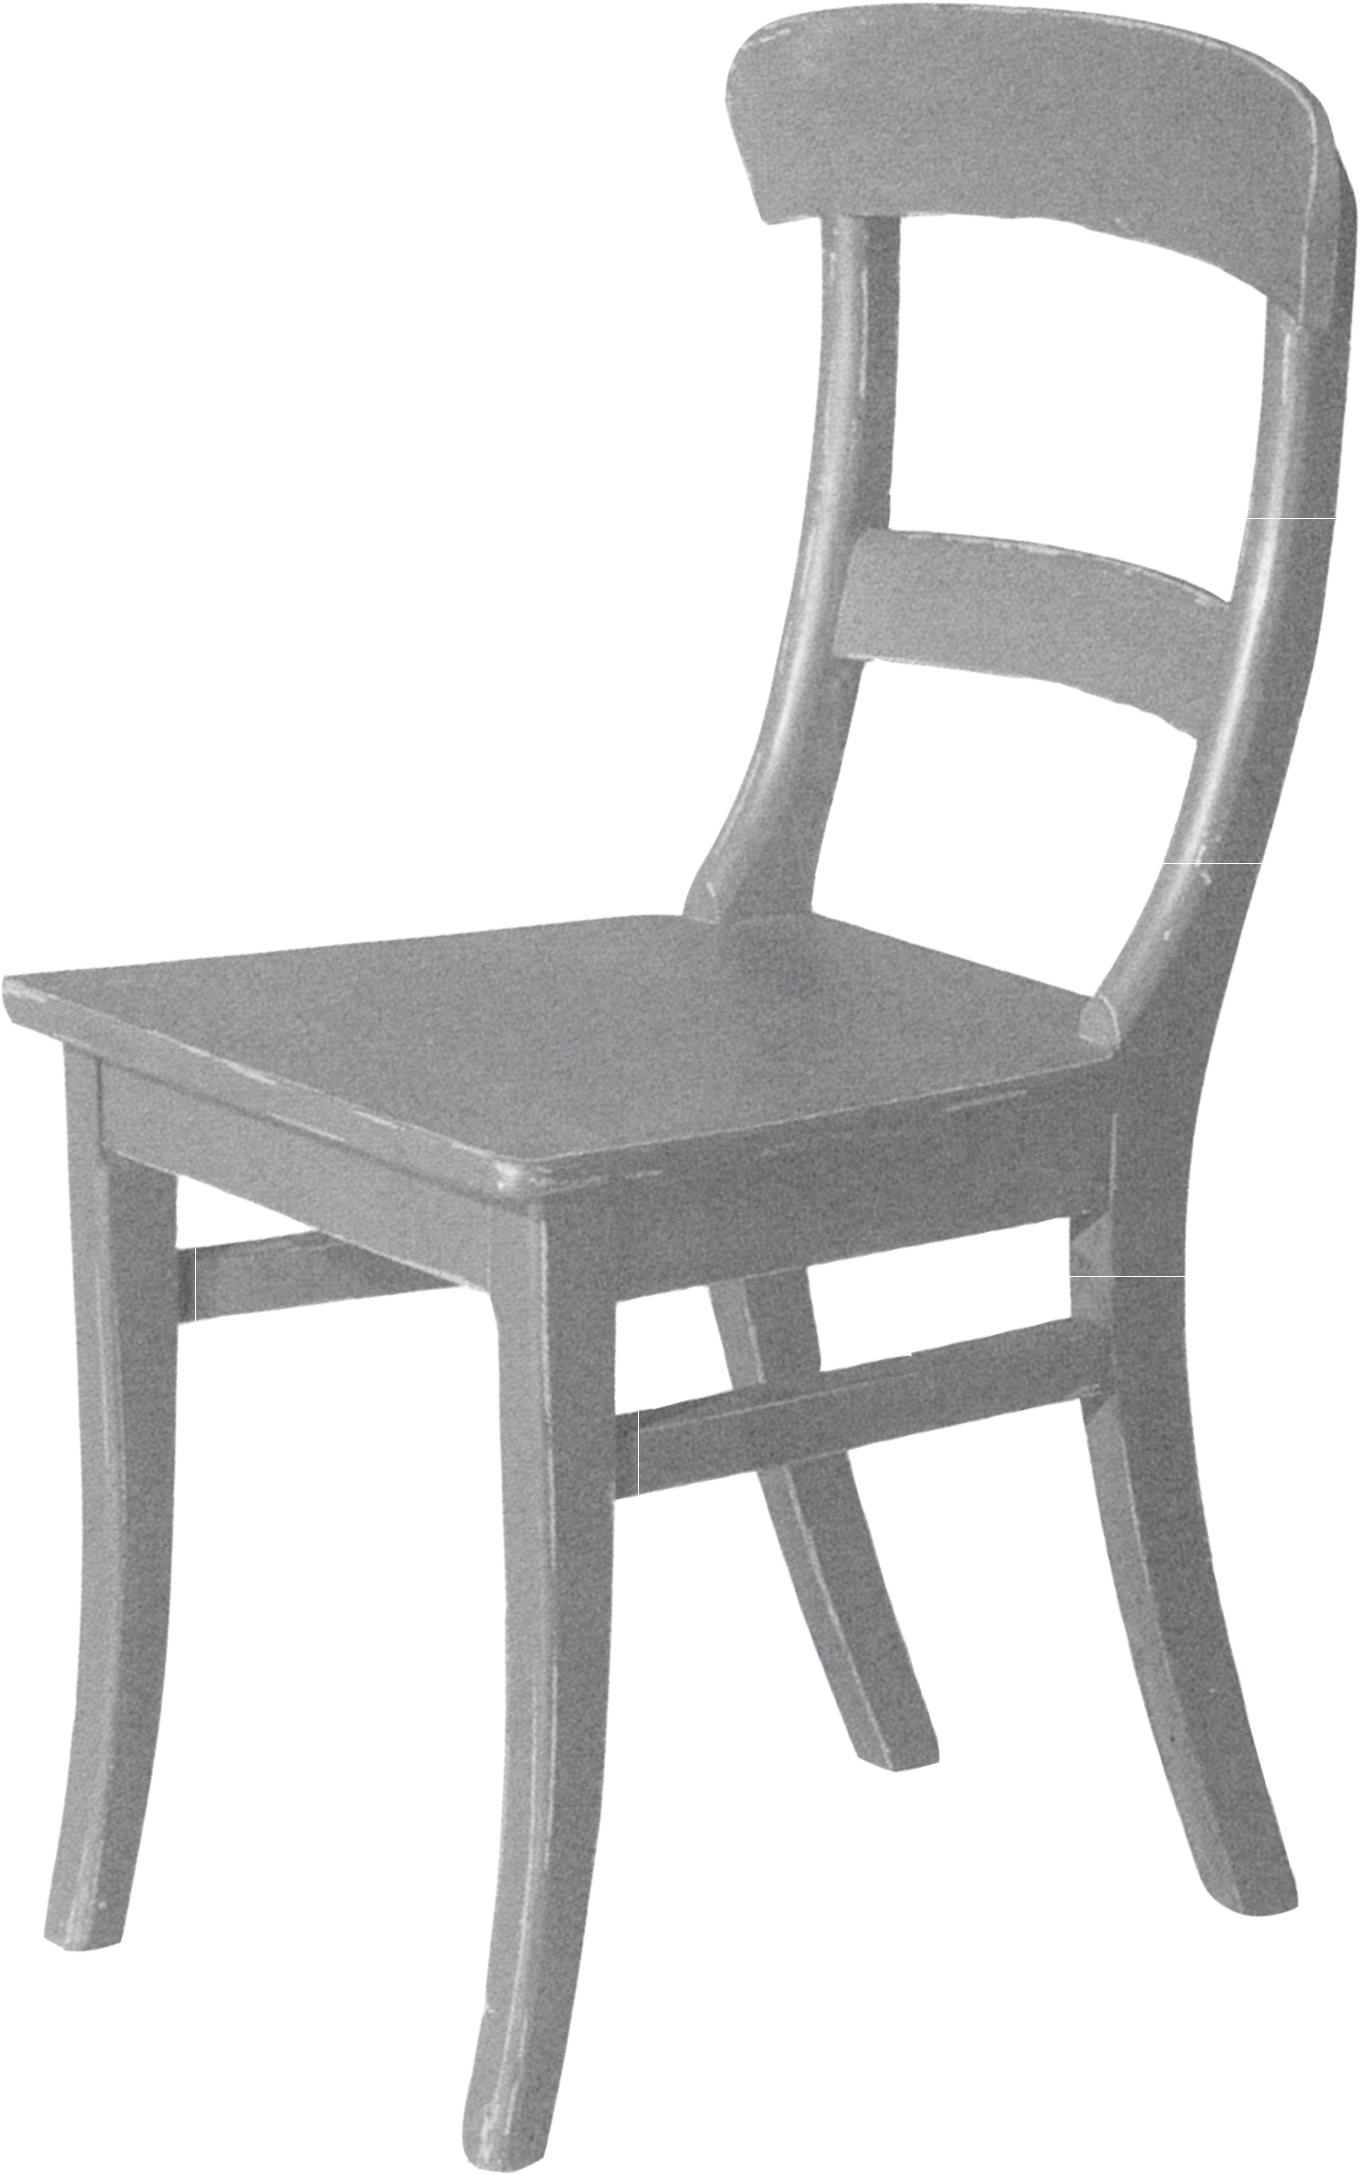
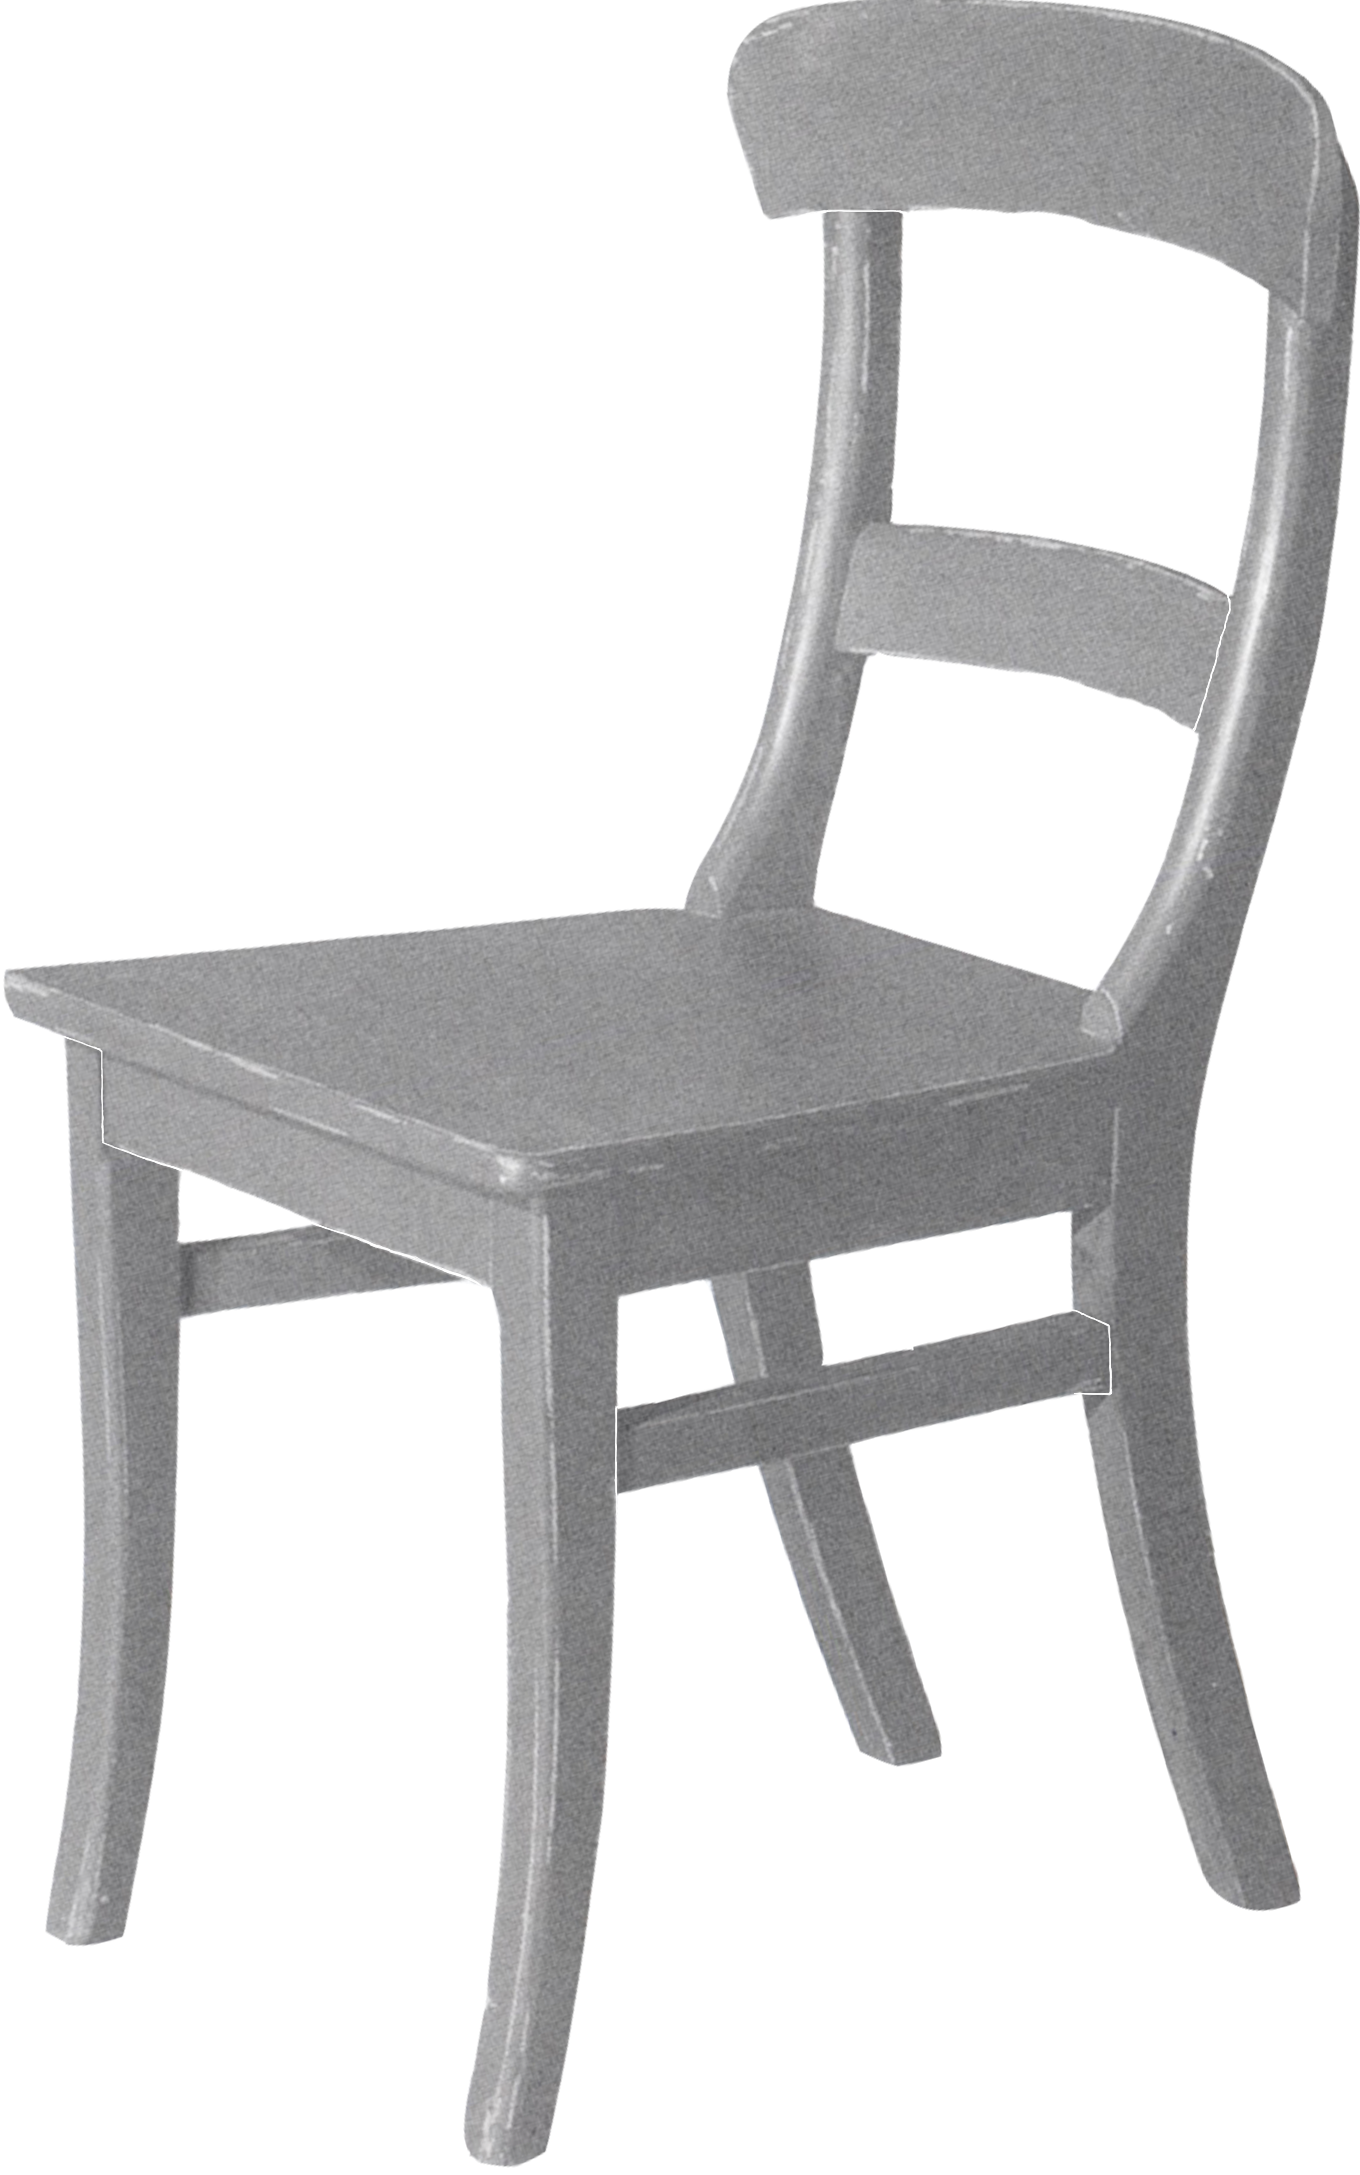
Z-order works; additional images, and some visuals.

diff --git a/src/App.tsx b/src/App.tsx
@@ -1,9 +1,8 @@
 import React, { useState, useRef, useEffect } from 'react';
 import Board, { BoardMethods } from './Components/Board';
 import Image, { ImageState, BoundingRect } from './Components/Image';
-import { IconButton } from '@material-ui/core';
 import { makeStyles } from '@material-ui/core/styles';
-import { loadWorkshop, WorkshopDetails } from './WorkshopLoader';
+import { loadWorkshop } from './WorkshopLoader';
 import SelectionLayer from './Components/SelectionLayer';
 import { OptionBar } from './OptionBar';
 
@@ -23,6 +22,11 @@ const useStyles = makeStyles(theme => ({
   }
 }));
 
+enum ZOrderOperation {
+  Forward,
+  Back
+}
+
 function App() {
 
   const classes = useStyles();
@@ -31,7 +35,7 @@ function App() {
   const cachedImageStates = useRef<(ImageState | null)[]>();
   const [workshopName, setWorkshopName] = useState("");
   const [workshopImages, setWorkshopImages] = useState<string[]>([]);
-  const [workshopUrl, setWorkshopUrl] = useState("http://localhost:3000/workshop/");
+  const [workshopUrl, setWorkshopUrl] = useState("http://192.168.1.86:3000/workshop/");
   const [boardMotionActive, setBoardMotionActive] = useState(true);
   const [hoverImageData, setHoverImageData] = useState<ImageState | null>(null);
   const [selectedImageData, setSelectedImageData] = useState<ImageState | null>(null);
@@ -118,10 +122,7 @@ function App() {
              r2.bottom < r1.top);
   }
 
-  const handleImageUpOne = (image: ImageState | null) => {
-    if (!image) {
-      return;
-    }
+  const handleImageZOrderChange = (image: ImageState, newIdxFunc: (existingIdx: number, currentImageState: ImageState, allImages: (ImageState | null)[]) => number) => {
 
     var cachedImages = cachedImageStates.current;
 
@@ -140,42 +141,72 @@ function App() {
       return;
     }
 
-    let moveToAfter = -1;
     var cacheItem = cachedImages[cacheItemIdx]!;
 
-    // Go through the set, starting from the next element.
-    for (let testItemIdx = cacheItemIdx + 1; testItemIdx < cachedImages.length; testItemIdx++)
+    let moveToIdx = newIdxFunc(cacheItemIdx, cacheItem, cachedImages);
+    
+    if (moveToIdx == cacheItemIdx)
     {
-      var testItem = cachedImages[testItemIdx];
-
-      if(testItem && intersects(testItem?.boundingRect, cacheItem.boundingRect))
-      {
-        moveToAfter = testItemIdx;
-        break;
-      }
-    }
-
-    if (moveToAfter === -1)
-    {
-      // Already at the top, nothing to do.
+      // Nothing to do.
       return;
     }
 
     // Remove the item from one location.
     cachedImages.splice(cacheItemIdx, 1);
 
+    if (moveToIdx < cacheItemIdx)
+    {
+      moveToIdx++;
+    }
+    else 
+    {
+      moveToIdx--;
+    }
+
     // Now put it back in another one.
-    cachedImages.splice(moveToAfter + 1, 0, cacheItem);
+    cachedImages.splice(moveToIdx, 0, cacheItem);
 
     // Now do the same thing for the image state list.
     let newState = [...workshopImages];
     var removed = newState.splice(cacheItemIdx, 1);
-    newState.splice(moveToAfter + 1, 0, removed[0]);
+    newState.splice(moveToIdx, 0, removed[0]);
 
     setWorkshopImages(newState);
   }
 
+  const forwardZOrder = (existingIdx: number, currentImageState: ImageState, allImages: (ImageState | null)[]) => {
+    
+    // Go through the set, starting from the next element.
+    for (let testItemIdx = existingIdx + 1; testItemIdx < allImages.length; testItemIdx++)
+    {
+      var testItem = allImages[testItemIdx];
 
+      if(testItem && intersects(testItem?.boundingRect, currentImageState.boundingRect))
+      {
+        return testItemIdx + 1;
+      }
+    }
+
+    // Already at the top, nothing to do.
+    return existingIdx;
+  }
+  
+  const backZOrder = (existingIdx: number, currentImageState: ImageState, allImages: (ImageState | null)[]) => {
+    
+    // Go through the set, starting from the next element.
+    for (let testItemIdx = existingIdx - 1; testItemIdx >= 0; testItemIdx--)
+    {
+      var testItem = allImages[testItemIdx];
+
+      if(testItem && intersects(testItem?.boundingRect, currentImageState.boundingRect))
+      {
+        return testItemIdx - 1;
+      }
+    }
+
+    // Already at the bottom, nothing to do.
+    return existingIdx;
+  }
 
   const activeImageBorder = movingImageData ?? hoverImageData ?? selectedImageData;
   const activeImageSelection = movingImageData ?? selectedImageData;
@@ -201,7 +232,8 @@ function App() {
       </Board>
       <OptionBar activeImage={activeImageSelection} 
                  onZoomToFit={() => { boardMethods.current?.resetZoom(); }}
-                 onUpOne={() => { handleImageUpOne(activeImageSelection); }}
+                 onUpOne={() => { handleImageZOrderChange(activeImageSelection!, forwardZOrder); }}
+                 onDownOne={() => { handleImageZOrderChange(activeImageSelection!, backZOrder) }}
                  />
       <canvas ref={processingCanvasEl} className={classes.computeCanvas} />
     </div>

diff --git a/src/OptionBar.tsx b/src/OptionBar.tsx
@@ -1,8 +1,9 @@
 import React, { FunctionComponent } from 'react';
 import { ImageState } from './Components/Image';
-import { AppBar, Toolbar, Typography, IconButton, CssBaseline } from '@material-ui/core';
+import { AppBar, Toolbar, Typography, IconButton, CssBaseline, Divider } from '@material-ui/core';
 import CropFreeRoundedIcon from '@material-ui/icons/CropFreeRounded';
 import ArrowUpwardRoundedIcon from '@material-ui/icons/ArrowUpwardRounded';
+import ArrowDownwardRoundedIcon from '@material-ui/icons/ArrowDownwardRounded';
 import { makeStyles } from '@material-ui/core/styles';
 
 const useStyles = makeStyles(theme => ({
@@ -11,6 +12,14 @@ const useStyles = makeStyles(theme => ({
         top: 'auto;',
         bottom: 0,
         boxShadow: "0px -4px 5px 0px rgba(0, 0, 0, 0.21)"
+    },
+
+    divider: {
+        marginLeft: '10px',
+    },
+
+    buttonContainer: {
+        marginLeft: '10px'
     }
 
 }));
@@ -18,8 +27,9 @@ const useStyles = makeStyles(theme => ({
 export const OptionBar: FunctionComponent<{ 
     activeImage?: ImageState | null,
     onZoomToFit?: () => void,
-    onUpOne?: () => void
-}> = ({ activeImage, onZoomToFit, onUpOne }) => {
+    onUpOne?: () => void,
+    onDownOne?: () => void
+}> = ({ activeImage, onZoomToFit, onUpOne, onDownOne }) => {
 
   const classes = useStyles();
 
@@ -27,11 +37,18 @@ export const OptionBar: FunctionComponent<{
         <CssBaseline />
         <AppBar className={classes.bar} color="primary" elevation={16} position="fixed">
             <Toolbar>
+                <Typography variant="h6">
+                    CollageIt
+                </Typography>
+                <Divider className={classes.divider} orientation="vertical" flexItem />
                 {/* <IconButton edge="end" color="inherit" onClick={onZoomToFit}>
                     <CropFreeRoundedIcon />
                 </IconButton> */}
                 <IconButton edge="end" color="inherit" disabled={activeImage === null} onClick={onUpOne}>
                     <ArrowUpwardRoundedIcon />
+                </IconButton>
+                <IconButton edge="end" color="inherit" disabled={activeImage === null} onClick={onDownOne}>
+                    <ArrowDownwardRoundedIcon />
                 </IconButton>
             </Toolbar>
         </AppBar>

diff --git a/public/index.html b/public/index.html
@@ -24,7 +24,7 @@
       work correctly both with client-side routing and a non-root public URL.
       Learn how to configure a non-root public URL by running `npm run build`.
     -->
-    <title>React App</title>
+    <title>CollageIt</title>
   </head>
   <body>
     <noscript>You need to enable JavaScript to run this app.</noscript>

diff --git a/src/ImageProcessing.tsx b/src/ImageProcessing.tsx
@@ -43,7 +43,7 @@ export const  getImageData = async (imageUrl: string, workingCanvas: HTMLCanvasE
     const defineNonTransparent: GridDetect = function (x, y)
     {
         var a=pixelData[(y*canvasWidth+x)*4+3];
-        return(a>20);
+        return(a>99);
     }
 
     var points = contour(defineNonTransparent);

diff --git a/src/Components/SelectionLayer.tsx b/src/Components/SelectionLayer.tsx
@@ -18,7 +18,7 @@ const useStyles = createUseStyles({
   selectionBorderPolygon: {
     fill: 'none',
     strokeWidth: '3px',
-    stroke: 'blue',
+    stroke: 'pink',
     strokeLinejoin: 'round'
   },
 });
